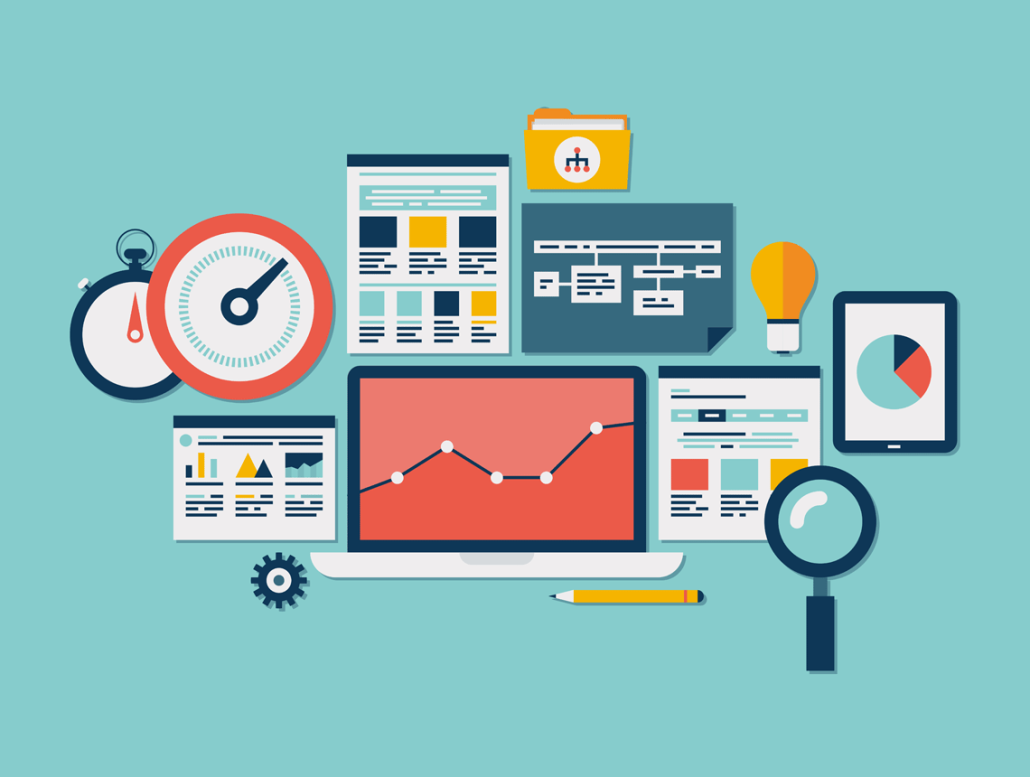
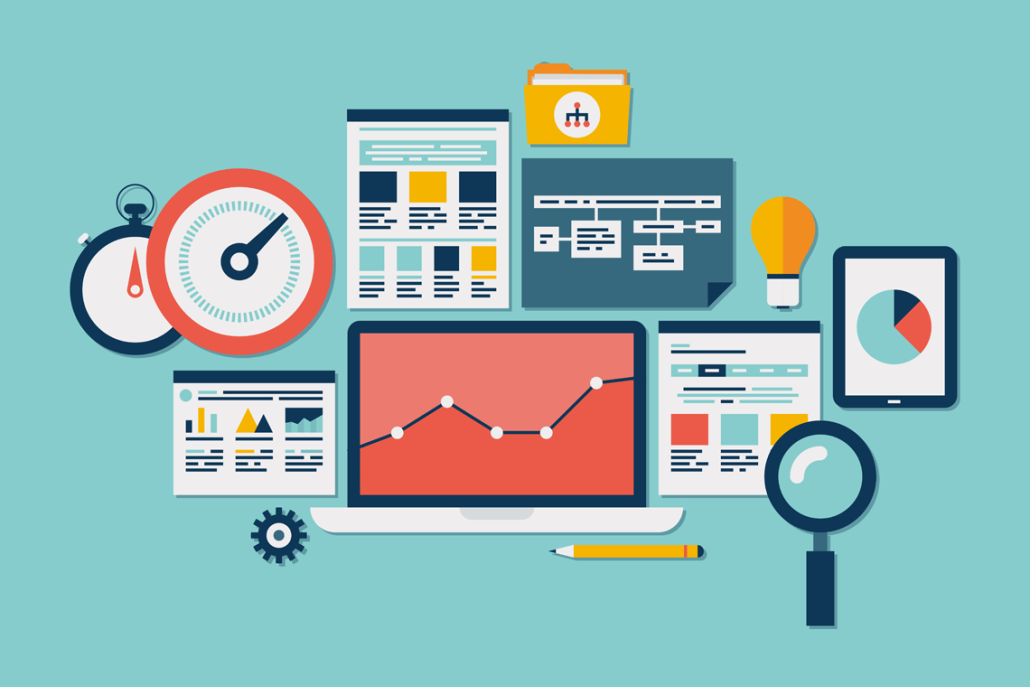
redesigned images

diff --git a/index.html b/index.html
@@ -293,37 +293,41 @@
             </div>
             <div class="row">
                 <div class="col-md-4 animate-box" data-animate-effect="fadeInLeft">
-                    <div class="team"> <img src="images/500-600.jpg" class="img-fluid" alt="">
+                    <div class="team"> <img src="images/bw-data.png" class="img-fluid" alt="">
                         <div class="desc">
                             <div class="con">
-                                <h3><a href="">Bridgewater Associates</a></h3> <span>Research Data Associate | Sep 2020 - Pres</span> 
-                                <li> Research and perform statistical analysis on global macroeconomic data to enable trade signal generation</li>
-                                <li>Partner with engineering and core research to improve accuracy of investment logic and systemize new logic in order to increase quality and speed of signal generation</li>
-                                <li>Own and manage data flows from 15 source vendors to systematically transform the data into tradable portfolios</li>
+                                <h3><a href="">Bridgewater Associates</a></h3> <!--<span>Research Data Associate | Sep 2020 - Pres</span> -->
+                                <ul style="list-style-type:disc;">
+                                    <li> Research and perform statistical analysis on global macroeconomic data to enable trade signal generation</li>
+                                    <li>Partner with engineering and core research to improve accuracy of investment logic and systemize new logic in order to increase quality and speed of signal generation</li>
+                                    <li>Own and manage data flows from 15 source vendors to systematically transform the data into tradable portfolios</li>
+                                </ul>
                             </div>
                         </div>
                     </div>
                 </div>
                 <div class="col-md-4 animate-box" data-animate-effect="fadeInLeft">
-                    <div class="team"> <img src="images/500-600.jpg" class="img-fluid" alt="">
+                    <div class="team"> <img src="images/bw-pm.png" class="img-fluid" alt="">
                         <div class="desc">
                             <div class="con">
-                                <h3><a href="">Bridgewater Associates</a></h3> <span>Portfolio Associate | Feb 2018 - Sep 2020</span> 
-                                <li> Oversee systematic portfolio construction for the $135 billion AUM global-macro hedge fund’s beta portfolios, which transforms conceptual investment intent from research systems into actionable trades of financial instruments across multiple asset classes</li>
-                                <li>Responsibilities split between portfolio management to ensure high-quality outcomes for clients and improvement projects, which included the research, planning, designing, and release of complex financial tools for internal use</li>
-
+                                <h3><a href="">Bridgewater Associates</a></h3>
+                                <ul style="list-style-type:disc;">
+                                    <li> Oversee systematic portfolio construction for the $135 billion AUM global macro hedge fund’s beta portfolios, which transforms conceptual investment intent from research systems into trades of financial instruments across asset classes</li>
+                                    <li>Responsibilities split between portfolio management to ensure high-quality outcomes for clients and improvement projects, which included the research, planning, designing, and release of complex financial tools for internal use</li>
+                                </ul>
                             </div>
 
                         </div>
                     </div>
                 </div>
                 <div class="col-md-4 animate-box" data-animate-effect="fadeInLeft">
-                    <div class="team"> <img src="images/500-600.jpg" class="img-fluid" alt="">
+                    <div class="team"> <img src="images/dws-pm.png" class="img-fluid" alt="">
                         <div class="desc">
                             <div class="con">
-                                <h3><a href="">DWS (Formerly Deutsche Asset Management)</a></h3> <span>Associate Portfolio Manager | July 2016 - Jan 2018</span>
-                                <li> Drove investment strategy and product vision and led global cross-functional team in UXR and engineering over 12 months to design, implement, and ship iWARP, a 0->1 MATLAB-based desktop application designed to perform asset allocation and compute long-term capital market assumptions across multiple asset classes for senior leaders representing $55 billion AUM</li>
-
+                                <h3><a href="">DWS (Formerly Deutsche Asset Management)</a></h3>
+                                <ul style="list-style-type:disc;">
+                                    <li> Drove investment strategy and product vision and led global cross-functional team in UXR and engineering over 12 months to design, implement, and ship iWARP, a 0->1 MATLAB-based desktop application designed to perform asset allocation and compute long-term capital market assumptions across multiple asset classes for senior leaders representing $55 billion AUM</li>
+                                </ul>
 							</div>
                         </div>
                     </div>
@@ -341,34 +345,34 @@
             <div class="row">
                 <div class="col-md-4 col-sm-4">
                         <div class="blog-entry animate-box" data-animate-effect="fadeInLeft">
-                            <a href="projects-dwscmd.html" class="blog-img"><img src="images/pricinggraph.jpg" class="img-fluid" alt=""></a>
+                            <a href="projects-dwscmd.html" class="blog-img" target="_blank"><img src="images/pricinggraph.jpg" class="img-fluid" alt=""></a>
                             <div class="desc"> <span>in <b><a href="#">Investment Management, Data Solutions</a></b></span>
-                                <h3><a href="projects-dwscmd.html">DWS, Commodity Team</a></h3>
+                                <h3><a href="projects-dwscmd.html" target="_blank">DWS, Commodity Team</a></h3>
                                 <p>Launched in 2017. The DWS Commodity Team ingests and stores large quantities of macroeconomic, market, and financial data related to the signals, indicators, and various data actuals to make tactical investment decisions in global commodity markets.</p>
 
-                                <a href="projects-dwscmd.html">Learn more</a>
+                                <a href="projects-dwscmd.html" target="_blank">Learn more</a>
                             </div>
                         </div>
                     </div>
                     <div class="col-md-4 col-sm-4">
                         <div class="blog-entry animate-box" data-animate-effect="fadeInLeft">
-                            <a href="projects-jmems.html" class="blog-img"><img src="images/jmems-home.png" class="img-fluid" alt=""></a>
+                            <a href="projects-jmems.html" class="blog-img" target="_blank"><img src="images/jmems-home.png" class="img-fluid" alt=""></a>
                             <div class="desc"> <span>in <b><a href="#">Web Design</a></b></span>
-                                <h3><a href="projects-jmems.html">JMEMS, Duke University</a></h3>
+                                <h3><a href="projects-jmems.html" target="_blank">JMEMS, Duke University</a></h3>
                                 <p>Launched in 2016. <i>The Journal of Medieval and Early Modern Studies</i> is Duke University's premiere digital and print publication fostering the rigorous investigation of historiographical representations of European and western Asian cultural forms from late antiquity to the seventeenth century. The journal is published triannually, and manuscript submissions are collected year-round.</p>
 
-                                <a href="projects-jmems.html">Learn more</a>
+                                <a href="projects-jmems.html" target="_blank">Learn more</a>
                             </div>
                         </div>
                     </div>
                     <div class="col-md-4 col-sm-4">
                         <div class="blog-entry animate-box" data-animate-effect="fadeInLeft">
-                            <a href="projects-chcpsf.html" class="blog-img"><img src="images/analytics.png" class="img-fluid" alt=""></a>
+                            <a href="projects-chcpsf.html" class="blog-img" target="_blank"><img src="images/analytics.png" class="img-fluid" alt=""></a>
                             <div class="desc"> <span>in <b><a href="#">Process Optimization, Database Launch</a></b></span>
-                                <h3><a href="projects-chcpsf.html">CHCPSF</a></h3>
+                                <h3><a href="projects-chcpsf.html" target="_blank">CHCPSF</a></h3>
                                 <p>The Chapel Hill-Carrboro Public School Foundation is a non-profit organization that creates opportunities for students and teachers in the Chapel Hill-Carrboro City Schools. The focus of this solution was to develop a centralized user management and analytics platform to more effectively utilize and distribute the CHCPSF's volunteer and financial resources.</p>
 
-                                <a href="projects-chcpsf.html">Learn more</a>
+                                <a href="projects-chcpsf.html" target="_blank">Learn more</a>
                             </div>
                         </div>
                     </div>
@@ -471,7 +475,7 @@
                             </div>
                             <div class="col-sm-12">
                                 <div class="form-group">
-                                    <textarea name="message" id="message" cols="30" rows="5" class="form-control" placeholder="Message"></textarea>
+                                    <textarea name="message" id="message" cols="30" rows="5" class="form-control" placeholder="Tell me something about yourself!"></textarea>
                                 </div>
                             </div>
                             <div class="col-sm-12">
@@ -481,7 +485,7 @@
                             </div>
                         </form>
                     </div>
-                    <!-- Contact Info -->
+                    <!-- Contact Image -->
                     <div class="col-md-6 mb-30 animate-box" data-animate-effect="fadeInLeft">
                     	<img src="images/jennyphonebooth.jpeg" class="img-fluid mb-30 animate-box" data-animate-effect="fadeInLeft" alt="">
 

diff --git a/projects-jmems.html b/projects-jmems.html
@@ -54,7 +54,7 @@
                     <div class="row">
                         <div class="col-md-7 image-content animate-box fadeInLeft animated" data-animate-effect="fadeInLeft"> 
                             <img class="img-fluid mb-30" src="images/jmems-home.png" alt=""> 
-                            <img class="img-fluid center" src="images/jmems-mobile.png" style="height: 17%; width: auto;" alt=""> 
+                            <img class="img-fluid mb-30" src="images/jmems-mobile.png" alt=""> 
                         </div>
                         <div class="col-md-5 animate-box fadeInLeft animated" data-animate-effect="fadeInLeft">
                             <div class="project-desc">
